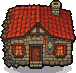
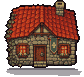
fix: cidade com sombras e base no chão

diff --git a/art-src/build_town.py b/art-src/build_town.py
@@ -12,14 +12,25 @@ Inputs (see docs/assets.md), all on flat magenta:
   art-src/gen/town-props.png      3 trees / lamp, well, planter, flower bed /
                                   fence, post, barrel, crates, sack
   art-src/gen/town-ground.png     ground painted over town-ground-guide.png
+  art-src/gen/town-base-decals.png  4x3 ground decals: grass tufts, moss,
+                                  loose foundation stones
 Outputs in game/assets/town/:
   ground.png 480x270 (opaque, 32 colours)
   one PNG per sprite (SPRITES below). Each sprite is keyed, downscaled to its
   width (or height), quantised to <= 32 colours, outlined with 1 px OUTLINE and
-  given a baked soft shadow. The building base line (where the wall meets the
+  given a baked ground shadow. The building base line (where the wall meets the
   ground) sits PAD px above the bottom of the image, so the scene puts the
-  sprite origin at (w / 2, h - PAD).
+  sprite origin at (w / 2, h - PAD). The canvas has MARGIN px free on both
+  sides, so the sprite stays centred.
+  Grounding (so pieces sit in the ground instead of floating): the outline is
+  dropped along the base, the bottom rows where the object meets the ground
+  are darkened (contact occlusion), and the shadow is the silhouette squashed
+  onto the ground below the base and leaned right (light from the upper left,
+  as in the key art), darker in the 2 rows next to the base.
   crystal_glow.png 48x48 soft blue glow (drawn here, additive in the scene).
+  decals.png strip of DECAL px cells (12: 4 grass, 4 moss, 4 stones), each
+  decal bottom-centred, dark outline swapped for a dark ground tone so it
+  blends into the ground. The scene lays them along building and prop bases.
 """
 import math
 import os
@@ -32,32 +43,43 @@ from PIL import Image  # noqa: E402
 from artlib import OUTLINE, count_colors, frames, parse_args, save_guarded  # noqa: E402
 
 COLORS = 32
-PAD = 4
+PAD = 8
+MARGIN = 4
 SHADOW = (20, 12, 24)
+# Shadow length per px of object height, its lean right per px of length,
+# and the alphas of the contact rows and of the rest.
+SHADOW_LEN = 0.14
+SHADOW_LEAN = 0.6
+SHADOW_ALPHA = (150, 96)
+DECAL = 16
+DECAL_SIZES = (14, 12, 10, 8)
+DECAL_EDGE = (62, 52, 46, 255)
+# Rows above the bottom that count as "on the ground" (base zone).
+BASE_ZONE = 3
 
 # name -> (source file, (row, col) in the frames() grid of the keyed source,
-#          ("w" or "h", size in px), shadow width as a fraction of the sprite)
+#          ("w" or "h", size in px), shadow length scale (0 = no shadow))
 SPRITES = {
-    "shop": ("town-shop.png", (0, 0), ("w", 104), 0.9),
-    "forge": ("town-forge.png", (0, 0), ("w", 104), 0.9),
-    "house_a": ("town-houses.png", (0, 0), ("h", 80), 0.9),
-    "house_b": ("town-houses-b.png", (0, 0), ("w", 74), 0.9),
-    "house_c": ("town-houses-b.png", (0, 1), ("w", 62), 0.9),
-    "crystal": ("town-crystal.png", (0, 0), ("h", 60), 0.8),
+    "shop": ("town-shop.png", (0, 0), ("w", 104), 1.0),
+    "forge": ("town-forge.png", (0, 0), ("w", 104), 1.0),
+    "house_a": ("town-houses.png", (0, 0), ("h", 80), 1.0),
+    "house_b": ("town-houses-b.png", (0, 0), ("w", 74), 1.0),
+    "house_c": ("town-houses-b.png", (0, 1), ("w", 62), 1.0),
+    "crystal": ("town-crystal.png", (0, 0), ("h", 60), 1.0),
     # The props sheet rows touch, so its cells are boxes (x0, y0, x1, y1)
     # around each object; the object is the opaque bbox inside the box.
-    "tree_a": ("town-props.png", (190, 10, 400, 214), ("w", 54), 0.8),
-    "tree_b": ("town-props.png", (460, 40, 620, 212), ("w", 40), 0.8),
-    "tree_c": ("town-props.png", (690, 30, 860, 212), ("w", 46), 0.8),
-    "lamp": ("town-props.png", (140, 214, 250, 410), ("h", 38), 0.6),
-    "well": ("town-props.png", (325, 225, 485, 410), ("w", 34), 0.9),
-    "planter": ("town-props.png", (550, 255, 720, 400), ("w", 30), 0.9),
-    "flowerbed": ("town-props.png", (785, 265, 945, 400), ("w", 30), 0.9),
-    "fence": ("town-props.png", (90, 440, 330, 570), ("w", 40), 0.0),
-    "fence_post": ("town-props.png", (370, 440, 450, 570), ("h", 22), 0.0),
-    "barrel": ("town-props.png", (510, 440, 610, 570), ("w", 14), 0.9),
-    "crates": ("town-props.png", (670, 430, 790, 575), ("w", 18), 0.9),
-    "sack": ("town-props.png", (860, 440, 960, 570), ("w", 14), 0.9),
+    "tree_a": ("town-props.png", (190, 10, 400, 214), ("w", 54), 1.0),
+    "tree_b": ("town-props.png", (460, 40, 620, 212), ("w", 40), 1.0),
+    "tree_c": ("town-props.png", (690, 30, 860, 212), ("w", 46), 1.0),
+    "lamp": ("town-props.png", (140, 214, 250, 410), ("h", 38), 0.5),
+    "well": ("town-props.png", (325, 225, 485, 410), ("w", 34), 1.0),
+    "planter": ("town-props.png", (550, 255, 720, 400), ("w", 30), 1.0),
+    "flowerbed": ("town-props.png", (785, 265, 945, 400), ("w", 30), 1.0),
+    "fence": ("town-props.png", (90, 440, 330, 570), ("w", 40), 0.6),
+    "fence_post": ("town-props.png", (370, 440, 450, 570), ("h", 22), 0.6),
+    "barrel": ("town-props.png", (510, 440, 610, 570), ("w", 14), 1.0),
+    "crates": ("town-props.png", (670, 430, 790, 575), ("w", 18), 1.0),
+    "sack": ("town-props.png", (860, 440, 960, 570), ("w", 14), 1.0),
 }
 
 
@@ -122,22 +144,59 @@ def outline(img):
     return out
 
 
-def with_shadow(img, frac):
-    """Canvas with PAD px below the base and a 2-step soft ellipse shadow."""
+def ground_contact(img):
+    """Darken the 2 bottom pixels of every column that reaches the base zone:
+    the contact occlusion where a wall or a foot meets the ground."""
     w, h = img.size
-    out = Image.new("RGBA", (w, h + PAD), (0, 0, 0, 0))
-    if frac > 0:
-        px = out.load()
-        cx, cy = (w - 1) / 2.0, h - 1
-        rx, ry = w * frac / 2.0, max(3.0, w * frac / 9.0)
-        for y in range(h + PAD):
+    a = img.getchannel("A").load()
+    px = img.load()
+    for x in range(w):
+        bottom = next((y for y in range(h - 1, -1, -1) if a[x, y]), None)
+        if bottom is None or bottom < h - BASE_ZONE:
+            continue
+        for y, k in ((bottom, 0.62), (bottom - 1, 0.8)):
+            if y >= 0 and a[x, y]:
+                r, g, b, al = px[x, y]
+                px[x, y] = (int(r * k), int(g * k), int(b * k), al)
+    return img
+
+
+def drop_base_outline(img):
+    """Outline pixels under the object in the base zone -> transparent, so the
+    base meets the shadow instead of a hard dark line."""
+    w, h = img.size
+    px = img.load()
+    for y in range(h - BASE_ZONE, h):
+        for x in range(w):
+            if px[x, y] == OUTLINE and y > 0 and px[x, y - 1][3] and px[x, y - 1] != OUTLINE:
+                px[x, y] = (0, 0, 0, 0)
+    return img
+
+
+def with_shadow(img, scale):
+    """Canvas with MARGIN px on the sides and PAD px below the base; under the
+    sprite, its silhouette squashed onto the ground and leaned right."""
+    w, h = img.size
+    out = Image.new("RGBA", (w + 2 * MARGIN, h + PAD), (0, 0, 0, 0))
+    if scale > 0:
+        a = img.getchannel("A").load()
+        base = h - 1
+        k = min(SHADOW_LEN * scale, (PAD - 1) / float(h))
+        depth = {}
+        for y in range(h):
             for x in range(w):
-                d = ((x - cx) / rx) ** 2 + ((y - cy) / ry) ** 2
-                if d <= 0.55:
-                    px[x, y] = SHADOW + (110,)
-                elif d <= 1.0:
-                    px[x, y] = SHADOW + (60,)
-    out.alpha_composite(img, (0, 0))
+                if not a[x, y]:
+                    continue
+                d = base - y
+                sy = base + int(round(d * k))
+                sx = x + MARGIN + int(round((sy - base) * SHADOW_LEAN))
+                if 0 <= sx < w + 2 * MARGIN:
+                    depth[(sx, sy)] = True
+        px = out.load()
+        for (x, y) in depth:
+            alpha = SHADOW_ALPHA[0] if y - base <= 1 else SHADOW_ALPHA[1]
+            px[x, y] = SHADOW + (alpha,)
+    out.alpha_composite(img, (MARGIN, 0))
     return out
 
 
@@ -149,8 +208,31 @@ def sprite(src, cell, size, frac, warm=False):
     else:
         r, c = cell
         obj = keyed.crop(frames(keyed, min_gap=20)[r][c])
-    small = quantize(shrink(obj, size), COLORS - 3)
-    return with_shadow(outline(small), frac)
+    small = quantize(ground_contact(shrink(obj, size)), COLORS - 3)
+    return with_shadow(drop_base_outline(outline(small)), frac)
+
+
+def decals(src):
+    """12 ground decals in one strip of DECAL x DECAL cells, <= COLORS colours."""
+    keyed = key(src)
+    grid = frames(keyed, min_gap=20)
+    out = Image.new("RGBA", (DECAL * 12, DECAL), (0, 0, 0, 0))
+    i = 0
+    for row in grid[:3]:
+        for c, box in enumerate(row[:4]):
+            small = shrink(keyed.crop(box), ("w", DECAL_SIZES[c]))
+            small = small.crop((0, 0, small.width, min(small.height, DECAL)))
+            out.alpha_composite(small, (i * DECAL + (DECAL - small.width) // 2, DECAL - small.height))
+            i += 1
+    assert i == 12, "decal sheet has %d cells" % i
+    out = quantize(out, COLORS - 1)
+    px = out.load()
+    for y in range(out.height):
+        for x in range(out.width):
+            r, g, b, a = px[x, y]
+            if a and r + g + b < 120:
+                px[x, y] = DECAL_EDGE
+    return out
 
 
 def crystal_glow(n=48):
@@ -187,6 +269,9 @@ def main(argv):
         assert n <= COLORS, "%s has %d colours" % (name, n)
         save_guarded(img, os.path.join(out_dir, name + ".png"), force)
     save_guarded(crystal_glow(), os.path.join(out_dir, "crystal_glow.png"), force)
+    d = decals(Image.open(os.path.join(gen, "town-base-decals.png")))
+    assert count_colors(d) <= COLORS, "decals have %d colours" % count_colors(d)
+    save_guarded(d, os.path.join(out_dir, "decals.png"), force)
     g = ground(Image.open(os.path.join(gen, "town-ground.png")))
     save_guarded(g, os.path.join(out_dir, "ground.png"), force)
 

diff --git a/docs/assets.md b/docs/assets.md
@@ -55,6 +55,7 @@ Nenhum desses scripts sobrescreve um arquivo que já existe, porque ele pode ter
 | `game/assets/ui/hud/ring.png` | Gerado por IA (nano-banana-2 edit) + ajuste por script | Anel de luz de `cinzel-hud-icons-sheet`, 24x24, 8 cores | 2026-11-14 |
 | `game/assets/ui/hud/fill_hp.png`, `fill_boss.png`, `fill_exit.png`, `fill_tip.png` | Autoral (script) | Rampas de 4 tons das barras e o pulso de luz da ponta, desenhados por `build_hud.py` | 2026-11-14 |
 | `game/assets/town/ground.png` (480x270) | Gerado por IA (gpt-image-2.5 flare edit) + ajuste por script | `art-src/gen/town-ground.png` (pintado sobre `town-ground-guide.png` com a arte-chave da cidade como referência) por `build_town.py`: reduzido para 480x270, 32 cores | 2026-11-14 |
+| `game/assets/town/decals.png` (192x16) | Gerado por IA + ajuste por script | `art-src/gen/town-base-decals.png` por `build_town.py`: 12 células de 16 px (tufos de grama, musgo, pedras soltas), contorno trocado por tom de chão; `town.gd` espalha nas bases | 2026-11-14 |
 | `game/assets/town/shop.png` | Gerado por IA (gpt-image-2.5 flare, preset `cinzel-pixel`) + ajuste por script | `art-src/gen/town-shop.png` por `build_town.py`: recorte, 104 px de largura, até 29 cores, contorno de 1 px e sombra suave embutida | 2026-11-14 |
 | `game/assets/town/forge.png` | Idem | `art-src/gen/town-forge.png`, mesma receita; a cena espelha o sprite | 2026-11-14 |
 | `game/assets/town/house_a.png` | Idem | `art-src/gen/town-houses.png`, 80 px de altura | 2026-11-14 |
@@ -94,6 +95,7 @@ O nome no gerador de IA leva um hash de conteúdo. O arquivo no repositório é 
 | `art-src/gen/town-props.png` | `cinzel-town-props-316a781f76ff` | idem, 2K | Folha de objetos em 3 linhas: três árvores (carvalho, árvore clara, outono), lampião, poço, floreira, canteiro redondo, cerca, poste, barril, caixotes, saco | 2026-11-14 |
 | `art-src/gen/town-ground-guide.png` | `town-ground-guide-9e3f26c9fe7f` (upload) | `town_ground_guide.py` | Mapa de cores do chão: cinza = calçamento, anel claro = anel de pedra do cristal, marrom = terra, verde = grama | 2026-11-14 |
 | `art-src/gen/town-ground.png` | `cinzel-town-ground-e1d822381cad` | `openai/gpt-image-2.5/flare/edit`, referências = guia + arte-chave da cidade | "Repaint it as the GROUND ONLY of a top-down pixel art town square, keeping every region where it is": calçamento, anel de lajes, caminho de terra, grama com flores, meio-fio de pedra, sem prédios | 2026-11-14 |
+| `art-src/gen/town-base-decals.png` | `cinzel-town-base-decals-925384bda50c` | `style/gpt-image-2.5/flare`, `cinzel-pixel`, `gameplayProps` | Grade 4x3 de decalques de chão: tufos de grama entre pedras, musgo com seixos, pedras de fundação soltas, sobre magenta | 2026-11-14 |
 | (sem arquivo bruto no repo) | `cinzel-item-icons-sheet-6a10443e5bc9` | `fal-ai/nano-banana-2/edit`, preset `cinzel-pixel`, papel `gameplayProps`, 2K | Grade 4x2 dos 8 itens sobre magenta, cada um com brilho amarelo (veio um mini escalador perdido no meio, apagado no script) | 2026-11-14 |
 | (sem arquivo bruto no repo) | `cinzel-npcs-sheet-73ad112ab455` | `fal-ai/nano-banana-2/edit`, preset `cinzel-pixel`, papel `characters`, 2K | Lojista (avental verde, boné, bolsa de moedas) e ferreiro (careca, barba, avental de couro, martelo), 2 quadros de idle cada, sobre magenta | 2026-11-14 |
 | (sem arquivo bruto no repo) | `cinzel-ui-kit-sheet-7be22ce3bc8a` | `fal-ai/nano-banana-2/edit`, preset `cinzel-pixel`, papel `uiElements`, 2K | Moldura de painel bronze, espaço de item, coração, moeda, relógio, sobre magenta | 2026-11-14 |
